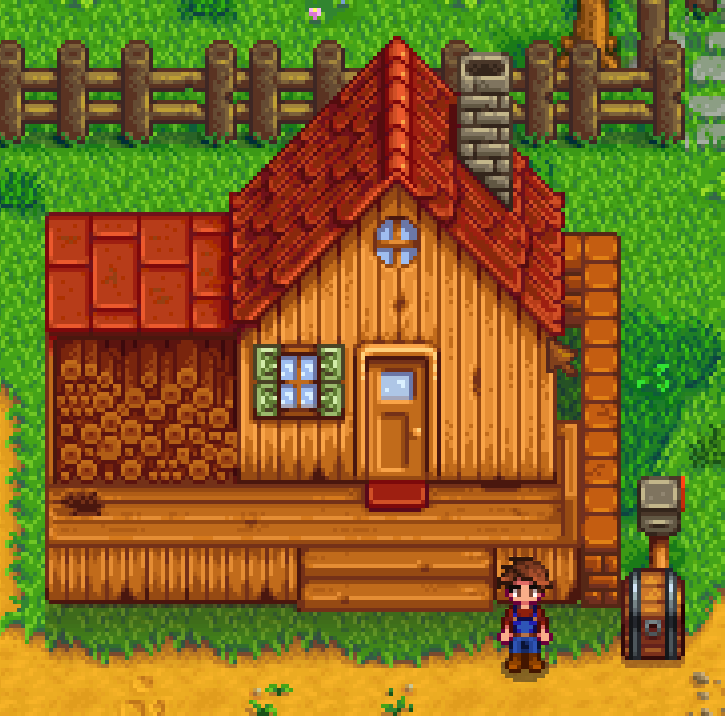
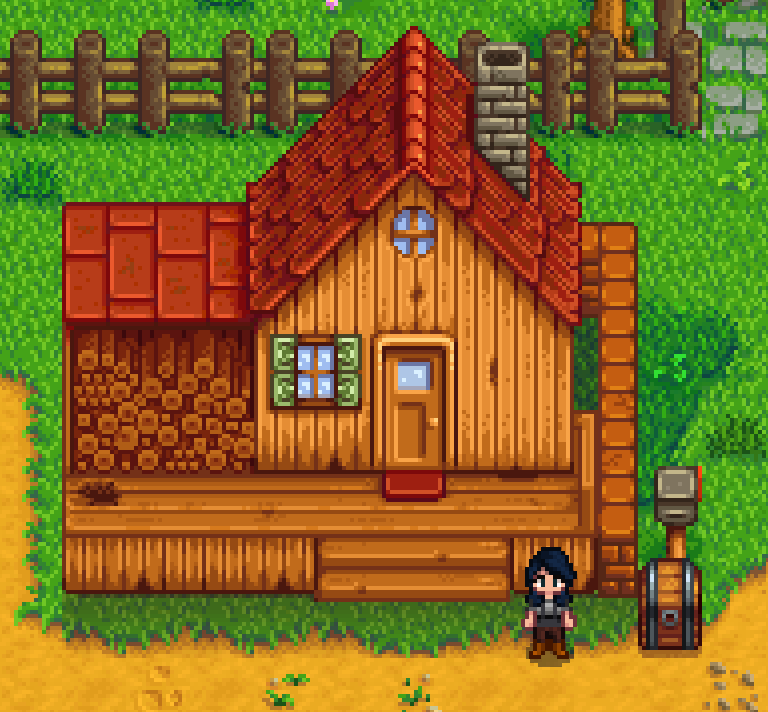
Images and edits

diff --git a/min-max/1.5/year-1-spring-1.md b/min-max/1.5/year-1-spring-1.md
@@ -16,6 +16,7 @@
 
 ## Advice and warnings
 
+- Play a female character. This awards you with extra money in the mail.
 - See [Parsnips crop planner](https://stardew.info/planner/32-heavy-rabbits-hugged-merrily) for a suggested [Parsnip](https://stardewvalleywiki.com/Parsnip) and [Scarecrow](https://stardewvalleywiki.com/Scarecrow) layout. [Mixed Seeds](https://stardewvalleywiki.com/Mixed_Seeds) are depicted by a generic crop icon.
 - You need to have collected enough forageables by the end of the day to have enough money to purchase the [Fiberglass Rod](https://stardewvalleywiki.com/Fiberglass_Rod) and enough [Bait](https://stardewvalleywiki.com/Bait_(item)) before [Willy](https://stardewvalleywiki.com/Willy) closes his shop on [Spring](https://stardewvalleywiki.com/Spring) 2.
 - You must mine and store at least one [Stone](https://stardewvalleywiki.com/Stone) at some point during the day for Spring 2.
@@ -42,7 +43,7 @@
 
    ![Farmhouse Chest](images/year-1-spring-1-farmhouse-chest.png)
 
-8.  Exit [The Farm](https://stardewvalleywiki.com/The_Farm) south to [Cindersap Forest](https://stardewvalleywiki.com/Cindersap_Forest). You will likely have to use the Scythe to cut through [Weeds](https://stardewvalleywiki.com/Weeds) and use the Pickaxe to break a Stone or two to get through. Try to time the screen transition for 9:20 am.
+8. Exit [The Farm](https://stardewvalleywiki.com/The_Farm) south to [Cindersap Forest](https://stardewvalleywiki.com/Cindersap_Forest). You will likely have to use the Scythe to cut through [Weeds](https://stardewvalleywiki.com/Weeds) and use the Pickaxe to break a Stone or two to get through. Try to time the screen transition for 9:20 am.
    - If you felled Trees quickly enough, you may have some extra time to use the Scythe to cut Weeds to get extra [Fiber](https://stardewvalleywiki.com/Fiber) and Mixed Seeds.
 
 ### Cindersap Forest

diff --git a/min-max/1.5/year-1-spring-2.md b/min-max/1.5/year-1-spring-2.md
@@ -46,6 +46,9 @@ Instructions:
 2. Travel to the Beach and acquire the Bamboo Pole.
 3. Gift the Stone to Willy and claim the 100g reward.
 4. Place the chest on the east-most tile on the south-most row of tiles on the pier. We will be fishing from the east-most tile on the middle row.
+
+   ![Fishing Chest](images/year-1-spring-2-ocean-chest.png)
+
 5. Fish facing right from the east-most tile using maximum casts.
 6. At 8:40 am, destroy the Bamboo Pole, then head to the sand to check for forageables and Artifact Spots.
    - If you acquire an Artifact now, donate it to the Museum and claim the 250g reward, then return to the Beach.
